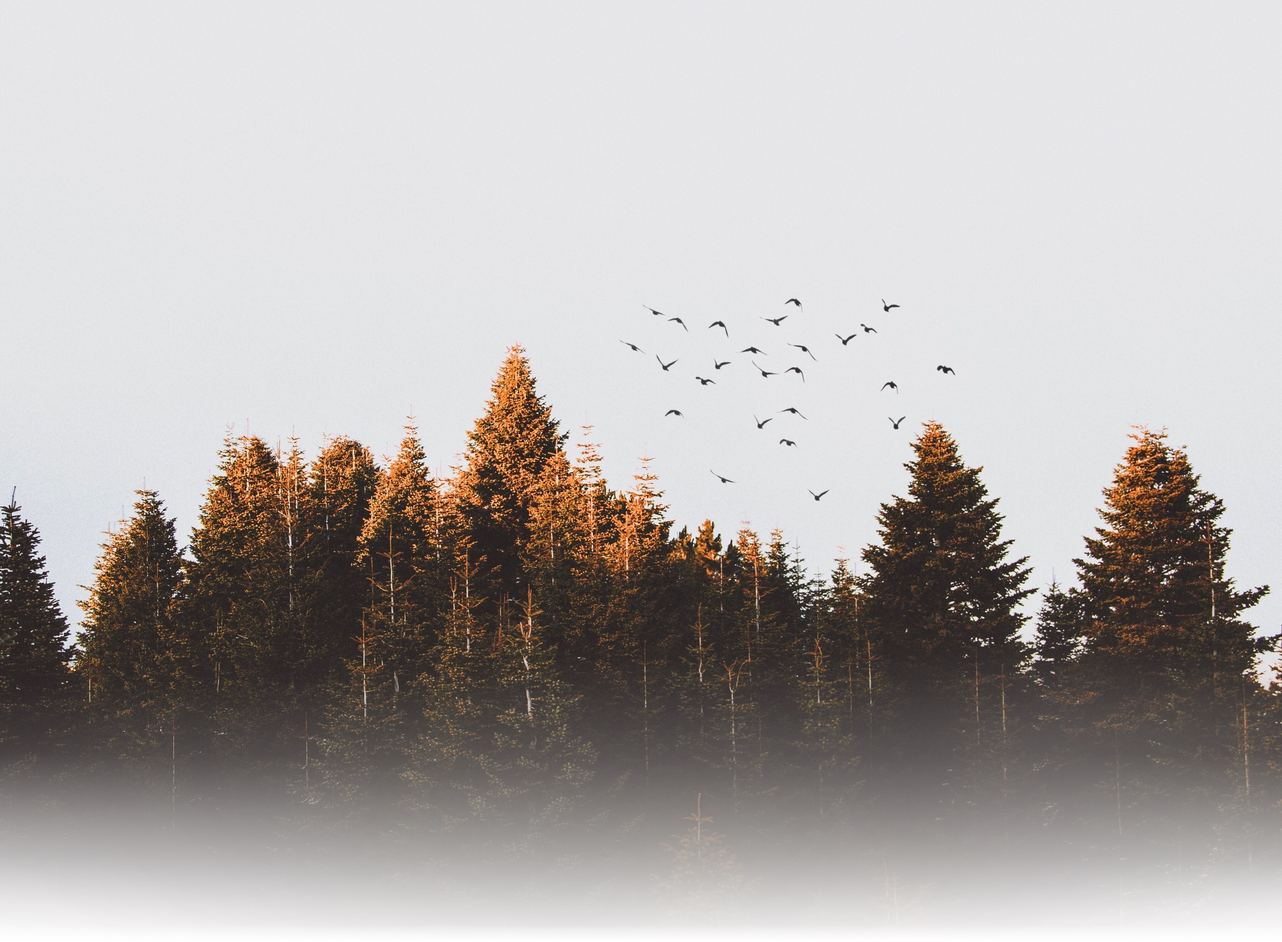
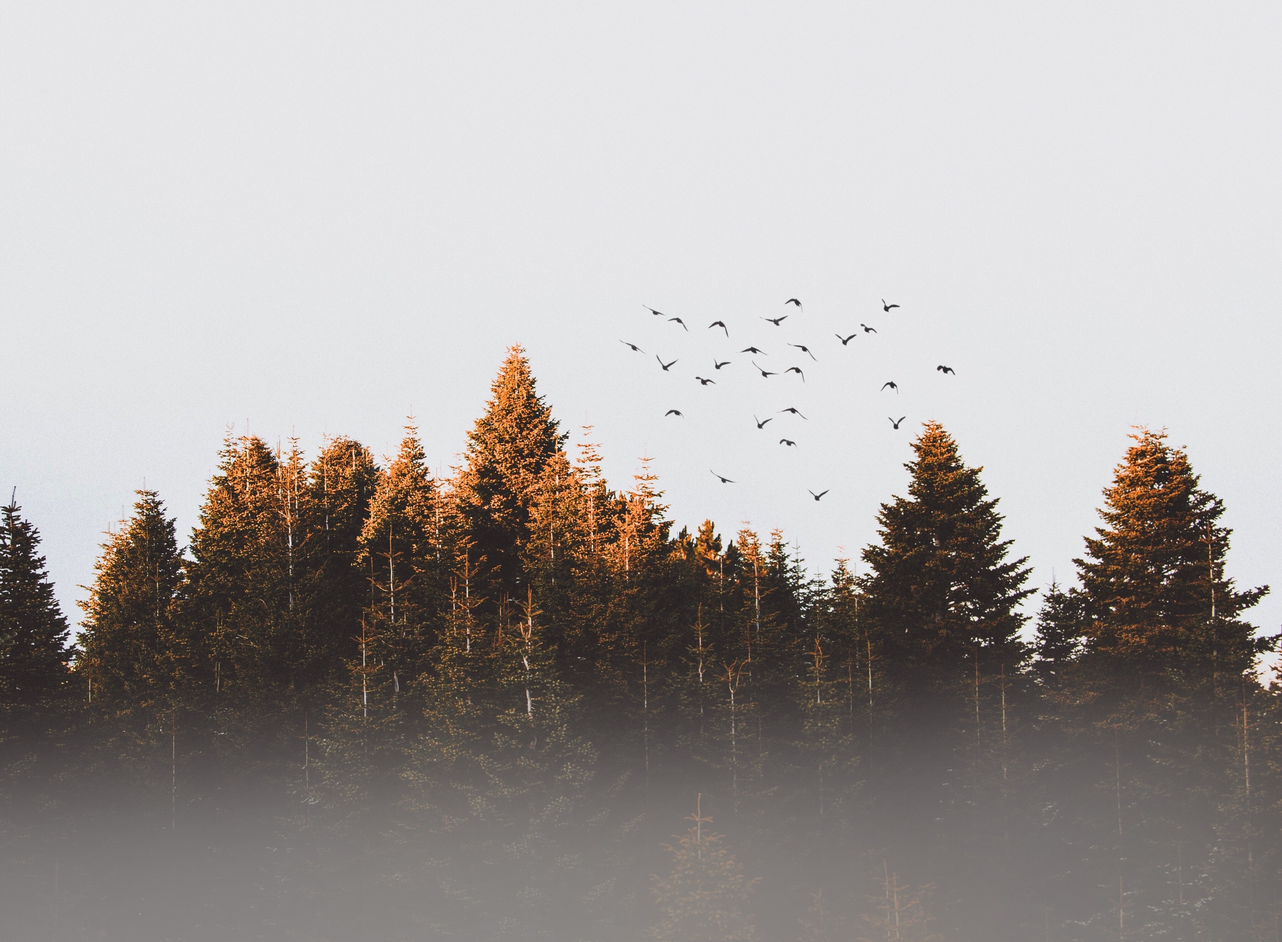
Fixed background for birds site

Changed region(s): [[0.0, 0.8376, 1.0, 1.0]]

diff --git a/pages/birds/style.css b/pages/birds/style.css
@@ -4,9 +4,15 @@
 
 body {
     margin: 0;
-    background-image: url("imgs/dreamy-birds.jpg");
-    background-repeat: no-repeat;
-    background-size: cover;
+}
+
+#img-background {
+    position: fixed;
+    object-fit: cover;
+    min-width: 100%;
+    min-height: 100%;
+    width: 100%;
+    z-index: -1;
 }
 
 nav {

diff --git a/pages/birds/index.html b/pages/birds/index.html
@@ -11,6 +11,7 @@
 <body>
     <script src="script.js"></script>
 
+    <img src="imgs/dreamy-birds.jpg" alt="birds flying" id="img-background">
     <nav>
         <div>
             <img src="imgs/bird.png" alt="bird silhouette" height="64">

diff --git a/pages/birds/facts.html b/pages/birds/facts.html
@@ -10,6 +10,7 @@
 </head>
 <body>
 
+    <img src="imgs/dreamy-birds.jpg" alt="birds flying" id="img-background">
     <nav>
         <div>
             <img src="imgs/bird.png" alt="bird silhouette" height="64">

diff --git a/pages/birds/fiction.html b/pages/birds/fiction.html
@@ -10,6 +10,7 @@
 </head>
 <body>
 
+    <img src="imgs/dreamy-birds.jpg" alt="birds flying" id="img-background">
     <nav>
         <div>
             <img src="imgs/bird.png" alt="bird silhouette" height="64">
